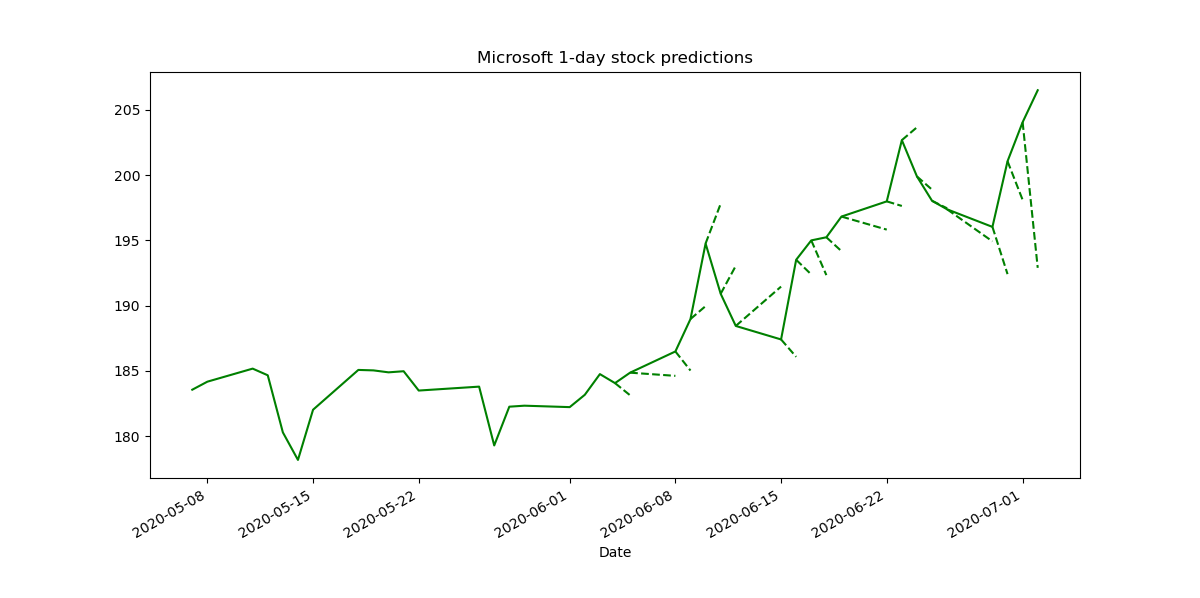
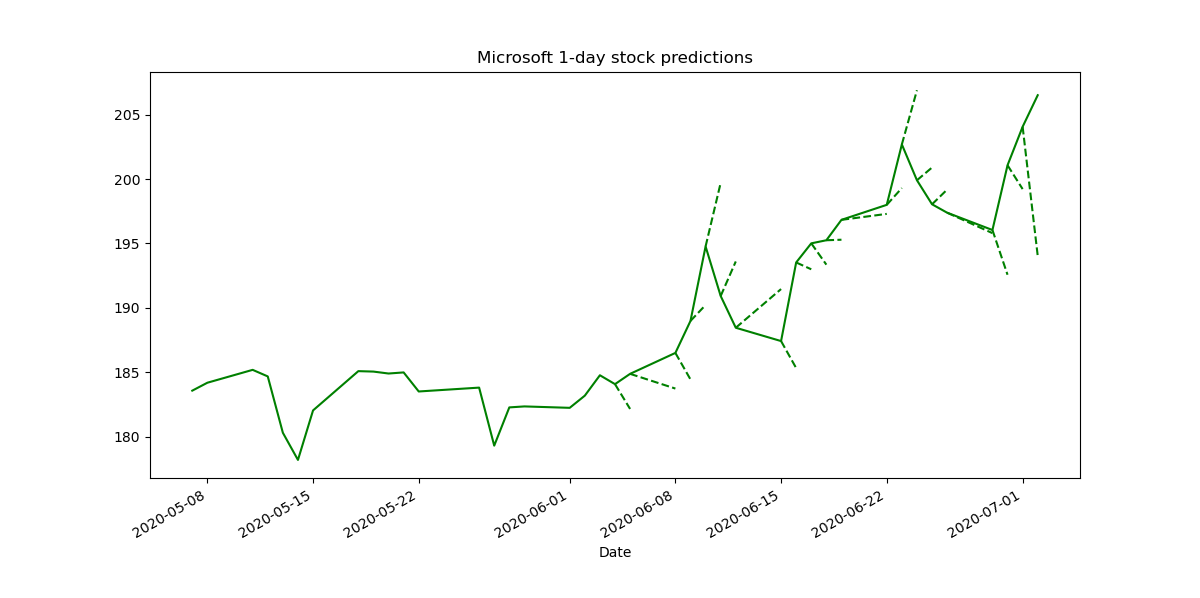
Fixed an error for calculating binary wrong predictions

diff --git a/forecast.py b/forecast.py
@@ -70,8 +70,10 @@ if __name__ == '__main__':
     input_size = 3
     n_preds = 1
     test_size = 20
+    hidden_layer = 200
     
-    model = LSTM(n_input=n_input, input_size=input_size)
+    model = LSTM(n_input=n_input, input_size=input_size,
+                 hidden_layer=hidden_layer)
     loss_fn = nn.MSELoss()
     optimizer = torch.optim.Adam(model.parameters(), lr=1e-3)
 
@@ -156,7 +158,10 @@ if __name__ == '__main__':
     colors = ['blue', 'orange', 'green']
     
     for i in range(input_size):
-        plt.figure()
+        plt.figure('{}_{}in_{}ep_{}h'.format(stocks[i].lower(),
+                                             n_input,
+                                             epochs,
+                                             hidden_layer))
         title = '{} {}-day stock predictions'.format(stocks[i], n_preds)
         label = 'Predictions'
         df[stocks[i]].iloc[-2*test_size:].plot(figsize=(12, 6), color=colors[i])
@@ -181,12 +186,11 @@ if __name__ == '__main__':
     dfdiff = (dfdiff - dfdiff.shift(1)).dropna()
     dfdiff = (dfdiff>0).astype(int)
 
-    preds = pd.DataFrame(preds_unsc, index=test.index,
-                         columns=['Amazon', 'Apple', 'Microsoft'])
-    preds_diff = ((preds - df.iloc[len(train)-1:-1])>0).astype(int)
+    preds = pd.DataFrame(preds_unsc, index=test.index, columns=stocks)
+    preds_diff = ((preds - df.iloc[len(train)-1:-1].values)>0).astype(int)
     
     dfdiff = dfdiff - preds_diff
     for stock in stocks:
         print('{} : {} wrong predictions out of {}'.format(
-            stock, int(dfdiff[stock].sum()), test_size))
+            stock, int(dfdiff[stock].abs().sum()), test_size))
 

diff --git a/README.md b/README.md
@@ -18,9 +18,9 @@ Amazon RMSE : 82.2145559000393
 We see that the model can predict the next day's mean stock value pretty well for some stocks (i.e. low error), but what is more important to us is that we don't predict it to go up when it goes down.
 
 If we only take the binary result of up or down from this model, we get these results :
-Amazon : 8 wrong predictions out of 20
-Apple : 8 wrong predictions out of 20
-Microsoft : 7 wrong predictions out of 20
+Amazon : 9 wrong predictions out of 20
+Apple : 11 wrong predictions out of 20
+Microsoft : 15 wrong predictions out of 20
 
 ## Further work
 - Use the differenced dataframe to train the network, which may lead to a better result in the binary task of predicting "up" or "down" for the next day and would eliminate the need for smoothing windows
